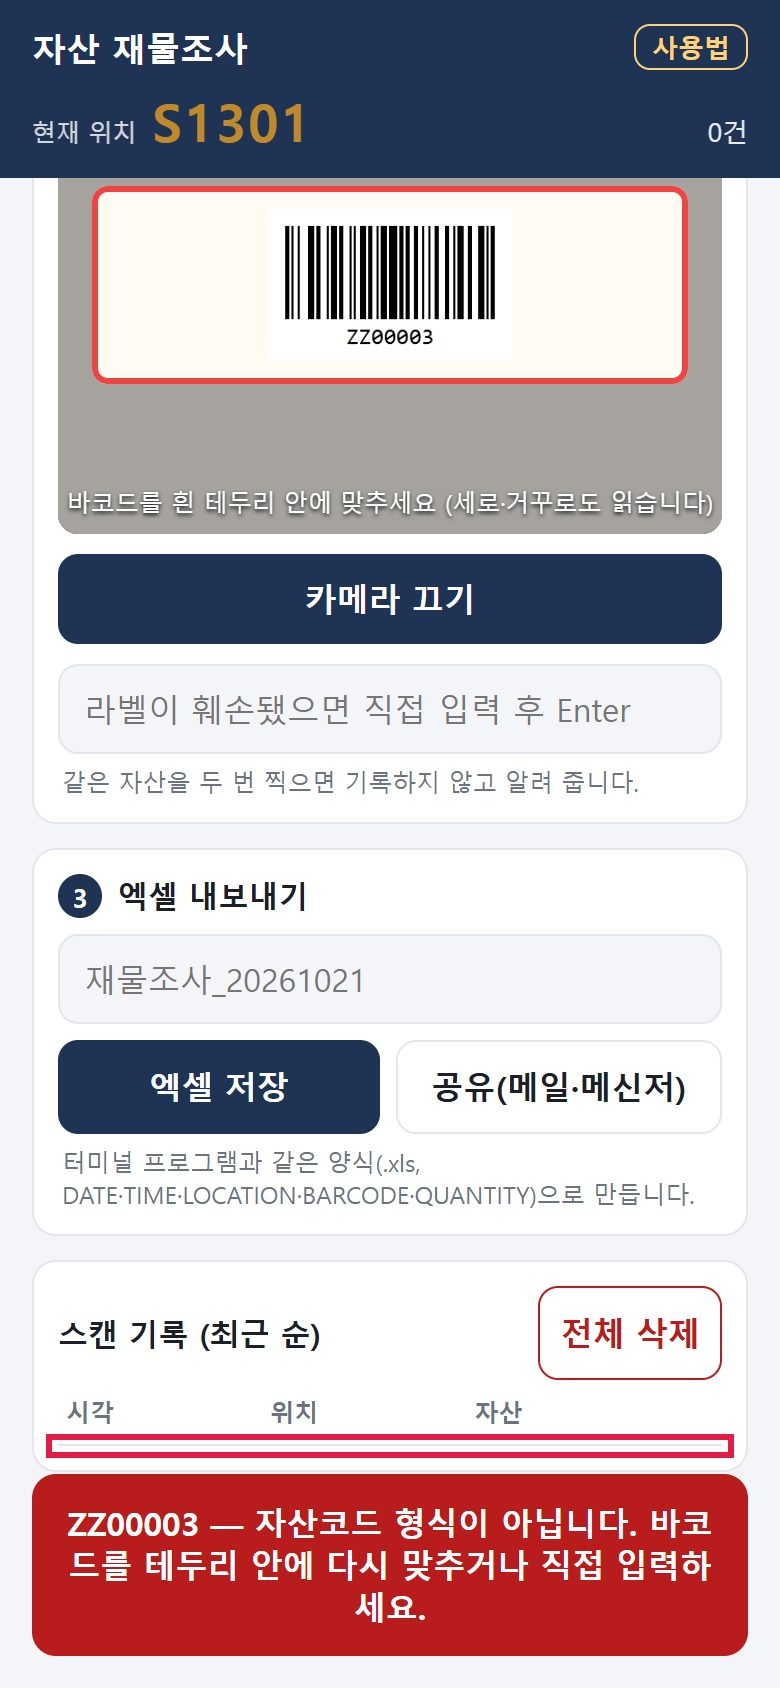
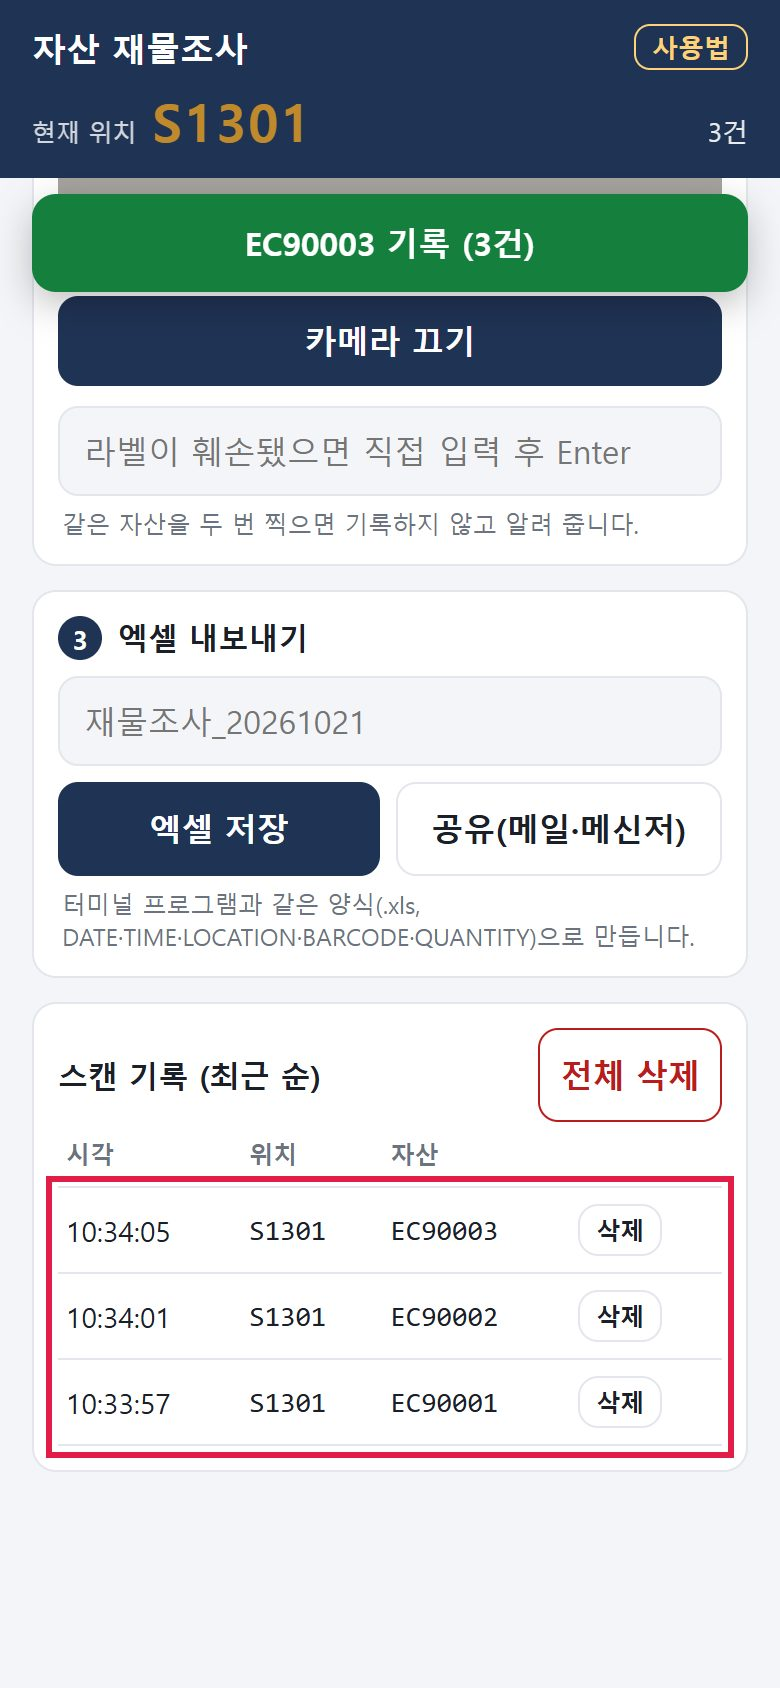
Show notices at the top, neutral Android share wording, fix help shots
- Toasts appear just below the header (thumb no longer covers them)
- Share fallback says "on Android..." instead of blaming the phone
- Help screenshots use format-valid fictitious codes (EC9xxxx);
  previous shots showed a format error
- Cache version v7

diff --git a/app.js b/app.js
@@ -115,6 +115,7 @@
   var toastTimer = null;
   function toast(msg, kind) {
     var t = $('toast');
+    t.style.top = (document.querySelector('header').getBoundingClientRect().bottom + 8) + 'px';
     t.textContent = msg; t.className = 'toast show ' + kind;
     clearTimeout(toastTimer);
     toastTimer = setTimeout(function () { t.className = 'toast ' + kind; }, kind === 'ok' ? 1400 : msg.length > 40 ? 5000 : 3000);
@@ -181,7 +182,8 @@
     a.href = URL.createObjectURL(f); a.download = f.name;
     document.body.appendChild(a); a.click(); a.remove();
     setTimeout(function () { URL.revokeObjectURL(a.href); }, 5000);
-    if (fromShare) toast('이 폰은 엑셀 공유를 막아서 ' + f.name + ' 을 저장했습니다. 파일 앱 → 다운로드에서 공유하세요.', 'warn');
+    if (fromShare) toast((/Android/i.test(navigator.userAgent) ? '안드로이드에서는' : '이 브라우저에서는') +
+      ' 엑셀 파일을 바로 공유할 수 없어 ' + f.name + ' 을 다운로드 폴더에 저장했습니다. 파일 앱 → 다운로드에서 공유하세요.', 'warn');
     else toast(f.name + ' 저장 (' + state.records.length + '건)', 'ok');
   }
 

diff --git a/index.html b/index.html
@@ -61,9 +61,11 @@
               text-shadow: 0 1px 2px #000; }
   .tools { display: none; margin-top: 8px; }
   .tools.on { display: flex; }
-  .toast { position: fixed; left: 16px; right: 16px; bottom: max(16px, env(safe-area-inset-bottom));
+  /* 알림은 화면 위쪽(제목 띠 바로 아래) — 아래쪽은 엄지손가락에 가려 놓친다(261021 현장 의견). top 은 app.js 가 제목 띠 높이로 맞춘다 */
+  .toast { position: fixed; left: 16px; right: 16px; top: 110px;
            padding: 14px; border-radius: 12px; color: #fff; font-weight: 700; text-align: center;
-           opacity: 0; transform: translateY(10px); transition: .18s; z-index: 10; pointer-events: none; }
+           box-shadow: 0 6px 18px rgba(0,0,0,.25);
+           opacity: 0; transform: translateY(-10px); transition: .18s; z-index: 10; pointer-events: none; }
   .toast.show { opacity: 1; transform: none; }
   .toast.ok { background: var(--ok); } .toast.warn { background: var(--warn); } .toast.err { background: var(--err); }
   table { width: 100%; border-collapse: collapse; font-size: 14px; }

diff --git a/help.html b/help.html
@@ -102,7 +102,7 @@
       <h2><span class="no">3</span>카메라를 켜고 바코드를 비춥니다</h2>
       <ul>
         <li><b>카메라 켜기</b>를 누르고, 바코드를 <b>흰 테두리 안에</b> 맞춥니다. 세로로 돌아가 있거나 거꾸로 붙은 바코드도 읽습니다.</li>
-        <li>읽히면 <b>테두리가 초록색</b>으로 바뀌고, 「삑」 소리와 진동이 나며 아래에 <b>「기록」</b> 알림이 뜹니다.</li>
+        <li>읽히면 <b>테두리가 초록색</b>으로 바뀌고, 「삑」 소리와 진동이 나며 <b>화면 위쪽</b>에 <b>「기록」</b> 알림이 뜹니다.</li>
         <li>버튼을 누를 필요가 없습니다. 비추기만 하면 기록됩니다.</li>
       </ul>
       <p class="tip">잘 안 읽힐 때: 15~20cm 떨어져서 잠깐 멈추세요. 너무 가까우면 초점이 맞지 않습니다. 어두우면 <b>플래시</b>, 라벨이 작으면 <b>확대</b> 버튼을 씁니다(지원하는 핸드폰에만 보입니다).</p>

diff --git a/sw.js b/sw.js
@@ -1,7 +1,7 @@
 // 오프라인 동작용 — 앱 파일만 캐시한다(스캔 기록은 다루지 않음). 파일을 고치면 VERSION 을 올릴 것.
 // 화면(HTML)·앱 코드(js)는 네트워크 우선: 인터넷이 되면 한 번만 열어도 새 판이 뜨고, 안 되면 캐시로 연다.
 // 라이브러리·그림은 캐시 우선(크고 거의 안 바뀜).
-var VERSION = 'asset-pwa-v6';
+var VERSION = 'asset-pwa-v7';
 var FILES = ['./', 'index.html', 'app.js', 'export.js', 'scanner.js', 'manifest.webmanifest',
   'icon-192.png', 'icon-512.png', 'vendor/zxing-library.min.js', 'vendor/xlsx.full.min.js',
   'help.html', 'help/step1.jpg', 'help/step2.jpg', 'help/step3.jpg', 'help/step4.jpg',
